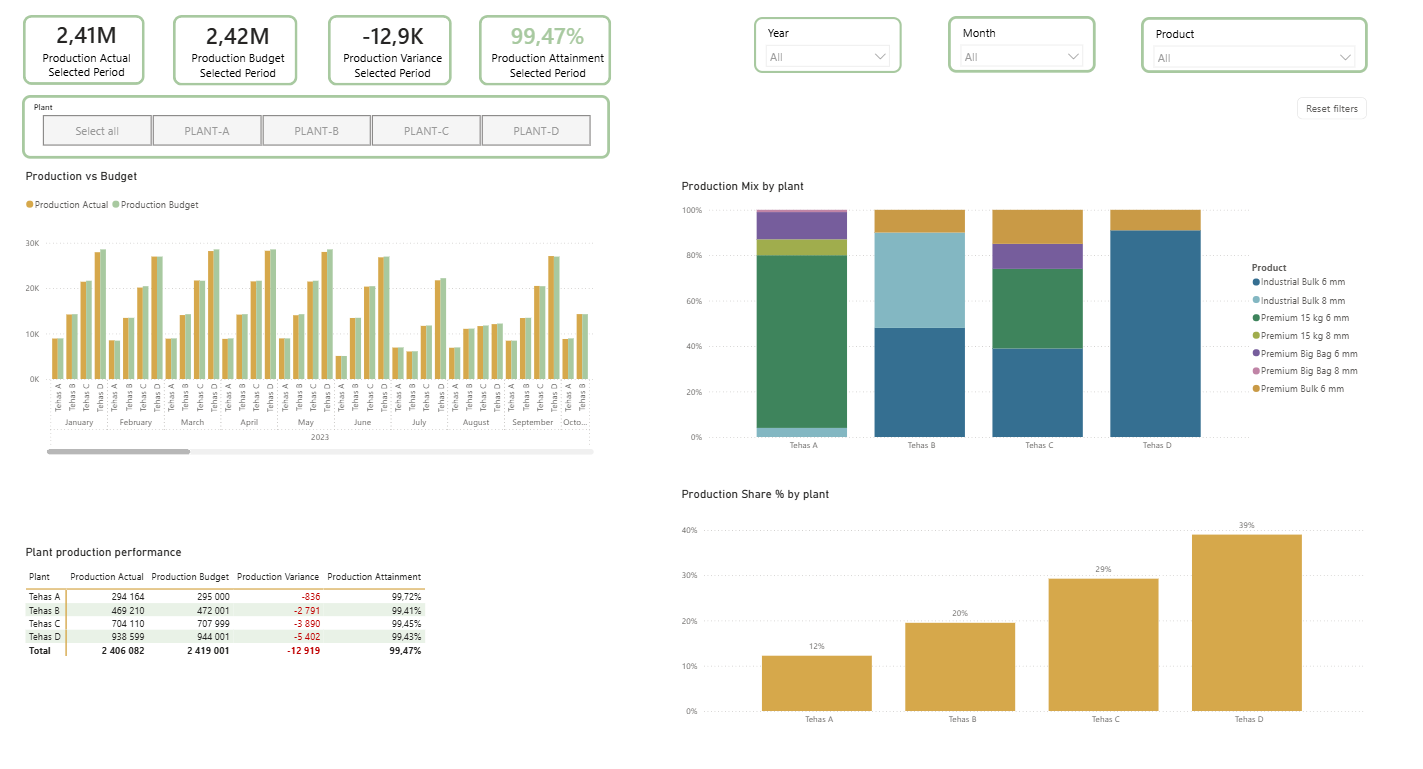
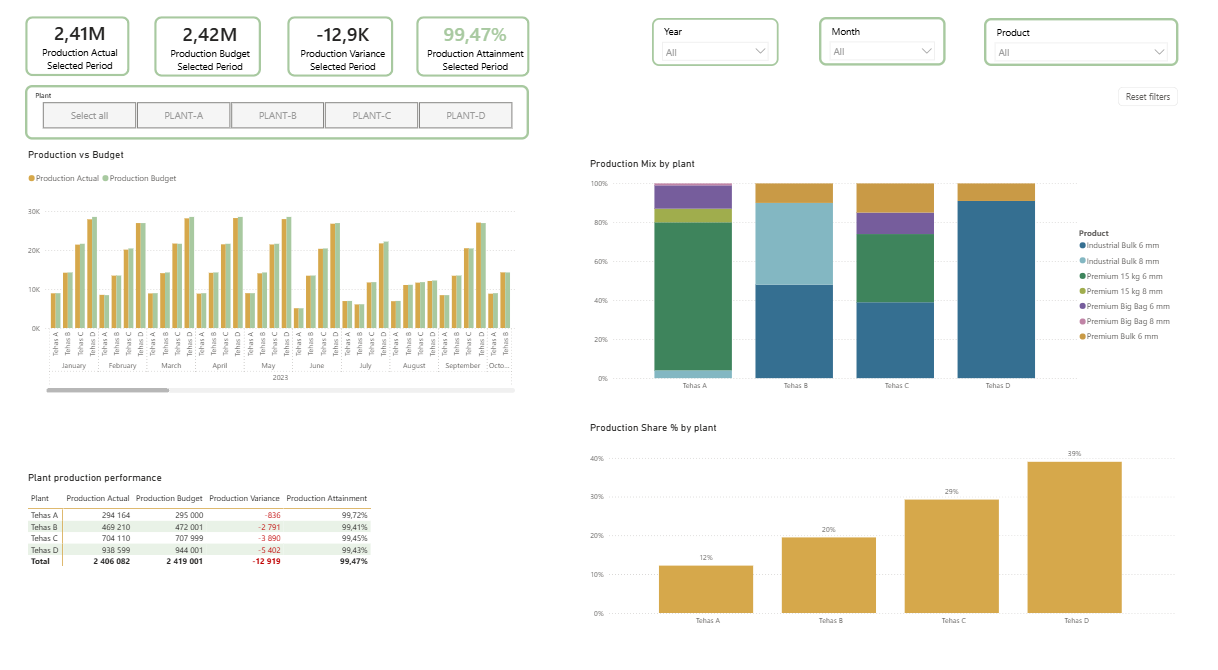
Update README and Power BI dashboard screenshots
Updated the main README to reflect channel-level budget comparisons, all-channel production vs sales logic, and the actual scope of Python validation. Replaced V1 Dashboard, Sales Analysis and Plant Analysis screenshots.

diff --git a/README.md b/README.md
@@ -3,71 +3,61 @@
 **A practical management dashboard for a simulated, multi-plant pellet supply chain.**
 
 **Tools:** Power BI · DAX · PostgreSQL · SQL · Python · Git/GitHub  
-**Version:** V1 — completed and tested  
+**Version:** V1 — implemented; final quality review in progress  
 **Dataset:** Synthetic, Directo-inspired data · 2023–2025
 
 The project brings **sales, production and budget data** into one reporting environment to help management identify deviations, compare plants and products, and examine whether production is aligned with sales.
 
 ## Dashboard preview
 
-![V1 Dashboard showing sales and production KPIs, actual versus budget trends, production versus sales, and product-level comparisons](docs/images/v1-dashboard.png)
+[![V1 Dashboard with sales and production KPIs, budget trends, plant and product views, and an all-channel production-versus-sales comparison](docs/images/v1-dashboard.png)](docs/images/v1-dashboard.png)
 
-*V1 Dashboard — management overview of sales, production, budget variances and production-versus-sales performance. All figures are simulated.*
+*V1 Dashboard — management overview of sales and production KPIs, budget variances and production-versus-sales performance. The production-versus-sales comparison uses **all sales channels**, even when a specific sales channel is selected elsewhere on the page. All figures are simulated.*
 
 ## The business challenge
 
-A high-level total can look close to budget even when individual plants, products or periods tell a different story. The dashboard is designed around three management questions:
+A high-level total can look close to budget even when individual plants, products, channels or periods tell a different story. The dashboard is designed around three management questions:
 
 - **Performance:** Are sales and production meeting their budgets?
-- **Drivers:** Which periods, plants and products explain deviations?
-- **Balance:** How does production volume compare with sales volume?
+- **Drivers:** Which periods, plants, products and sales channels explain deviations?
+- **Balance:** How does production volume compare with sales volume across all channels?
 
 ## What V1 includes
 
 | Report page | Main purpose |
-|---|---|
-| **V1 Dashboard** | Combined sales and production KPIs, budget variances and production-versus-sales comparisons |
-| **Sales Analysis** | Sales trends, actual sales by channel and product-level performance |
+| --- | --- |
+| **V1 Dashboard** | Combined sales and production KPIs, budget variances, selectable production views and an all-channel production-versus-sales comparison |
+| **Sales Analysis** | Sales trends, **channel-level actual versus budget** comparisons and product-level performance |
 | **Production Analysis** | Production against budget and sales, with selectable KPI views |
 | **Plant Analysis** | Plant-specific production performance, product mix and share of output |
 | **Product Analysis** | Product performance and production-versus-sales relationships |
 
-The report supports interactive year, month, plant and product filters, context-specific sales-channel filtering, dynamic selectors and **Reset filters**. Separate **QA Validation** and **About** pages explain checks, KPI definitions and model context.
+The report supports interactive year, month, plant and product filters, context-specific **sales-channel filtering**, dynamic selectors and **Reset filters**. Separate **QA Validation** and **About** pages explain checks, KPI definitions and model context.
 
 ### Additional analysis views
 
-<table>
-<tr>
-  <th align="left">Plant Analysis</th>
-  <th align="left">Sales Analysis</th>
-</tr>
-<tr>
-  <td width="50%"><a href="docs/images/plant-analysis.png"><img src="docs/images/plant-analysis.png" alt="Plant Analysis dashboard with production KPIs, plant product mix and output shares" width="100%"></a></td>
-  <td width="50%"><a href="docs/images/sales-analysis.png"><img src="docs/images/sales-analysis.png" alt="Sales Analysis dashboard with sales trends, budget comparison and sales channels" width="100%"></a></td>
-</tr>
-<tr>
-  <td>Explore plant results, production mix and contribution to total output.</td>
-  <td>Explore sales trends and channel distribution. The sales budget is <strong>not</strong> allocated by channel.</td>
-</tr>
-</table>
+| Plant Analysis | Sales Analysis |
+| --- | --- |
+| [![Plant Analysis dashboard with plant production KPIs, production mix and output shares](docs/images/plant-analysis.png)](docs/images/plant-analysis.png) | [![Sales Analysis dashboard with channel-level actual-versus-budget comparisons, trends and sales-channel results](docs/images/sales-analysis.png)](docs/images/sales-analysis.png) |
+| Explore plant results, production mix and each plant's contribution to total output. | Explore sales trends, **channel-specific actual versus budget** performance and product-level deviations. Sales budgets are allocated by channel and the totals have been cross-checked against PostgreSQL. |
 
-*Click either image to open the full-size screenshot.*
+*Click an image to open the full-size screenshot.*
 
 ## Data pipeline and model
 
 `Source CSV files → PostgreSQL Bronze → Silver → Gold → Power BI`
 
-The Power BI semantic model uses separate **sales, sales budget, production and production budget fact tables** with shared **date, plant, product and sales-channel dimensions**. SQL and Python support data preparation, analysis and independent validation.
+The Power BI semantic model uses separate **sales, sales budget, production and production budget fact tables** with shared **date, plant, product and sales-channel dimensions**. SQL scripts support data modelling and quality assurance. Python notebooks provide exploratory analysis and cross-checks of SQL-derived results; **independent end-to-end KPI recalculation in Python is not yet implemented**.
 
 **The dataset is entirely synthetic.** It reflects a Directo-inspired source structure, not actual company transactions or operational results.
 
 ## Quality assurance
 
-Data checks are documented and reproducible:
+Data checks are documented, with their scope and limitations stated explicitly:
 
 - **Source → Bronze:** **10/10 tables PASS**, covering **8,007 rows** with no missing or additional rows under the comparison rules.
 - **Bronze → Silver → Gold:** sales and production row-count, structural and quantity reconciliations.
-- **Gold → Power BI:** reported KPI totals checked against database results at the documented precision; report filters and reset behaviour tested.
+- **Gold → Power BI:** selected reported KPI totals checked against database results at the documented precision; sales-channel actuals, budgets and attainment reconciled with PostgreSQL; report filters and reset behaviour tested.
 
 **Interpretation:** A PASS confirms the specific checks performed, not the business accuracy of synthetic data. In the source-to-Bronze comparison, an empty CSV field and PostgreSQL `NULL` are treated as equivalent.
 
@@ -79,7 +69,9 @@ The **About** page retrieves measure names, descriptions and DAX expressions fro
 
 ## V1 boundaries and next steps
 
-V1 covers **sales, production, budgets and deviations**; it is not yet a complete supply-chain planning system. Sales-channel views are intended primarily for **actual sales distribution**. Because the V1 sales budget is **not allocated by channel**, channel-level comparisons must **not** be interpreted as separate channel budget targets.
+V1 covers **sales, production, budgets and deviations**; it is not yet a complete supply-chain planning system. **Sales budgets are allocated by sales channel**, so channel-level actual-versus-budget comparisons are supported.
+
+Production is **not** allocated to sales channels. On the management overview, the production-versus-sales comparison therefore uses **sales across all channels**, regardless of the channel selected for sales KPIs. This avoids comparing total production with only one channel's sales.
 
 Potential next stages include inventory and coverage, raw-material and BOM planning, capacity constraints, forecast accuracy, OTIF and exception-focused management views.
 
@@ -87,7 +79,7 @@ Potential next stages include inventory and coverage, raw-material and BOM plann
 
 - [Power BI report and semantic model](powerbi/)
 - [SQL scripts and QA records](sql/)
-- [Python scripts](python/)
+- [Python notebooks and scripts](python/)
 - [Project documentation](docs/)
 
-**Reproducibility note:** The repository contains the Power BI project structure and validation materials. Running the report against its underlying data requires an appropriate local PostgreSQL and Power BI setup; raw ZIP source archives may be excluded from the repository.
+**Reproducibility note:** The repository contains the Power BI project structure and validation materials, but not a fully self-contained environment for rebuilding the entire pipeline. Running the report against its underlying data requires an appropriate local PostgreSQL and Power BI setup; raw ZIP source archives may be excluded from the repository.
